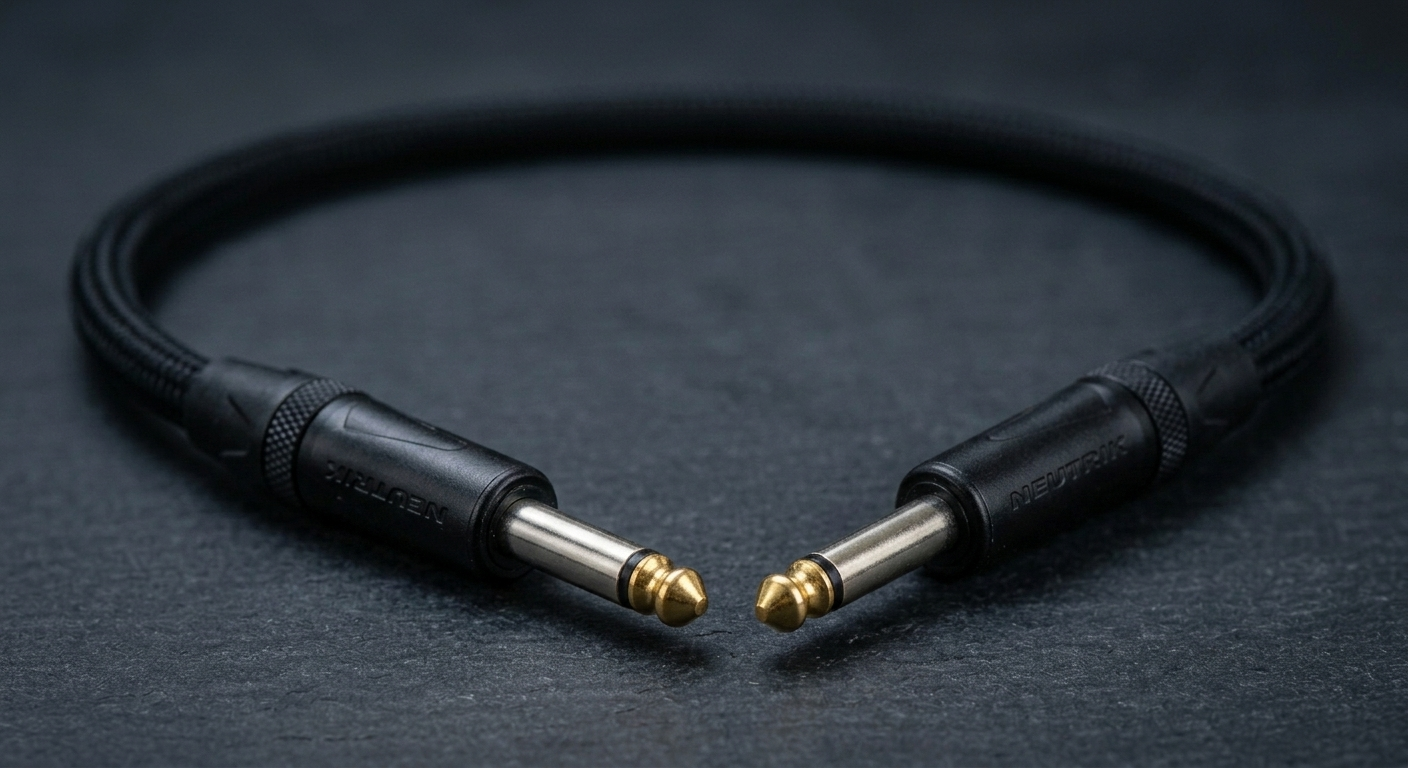
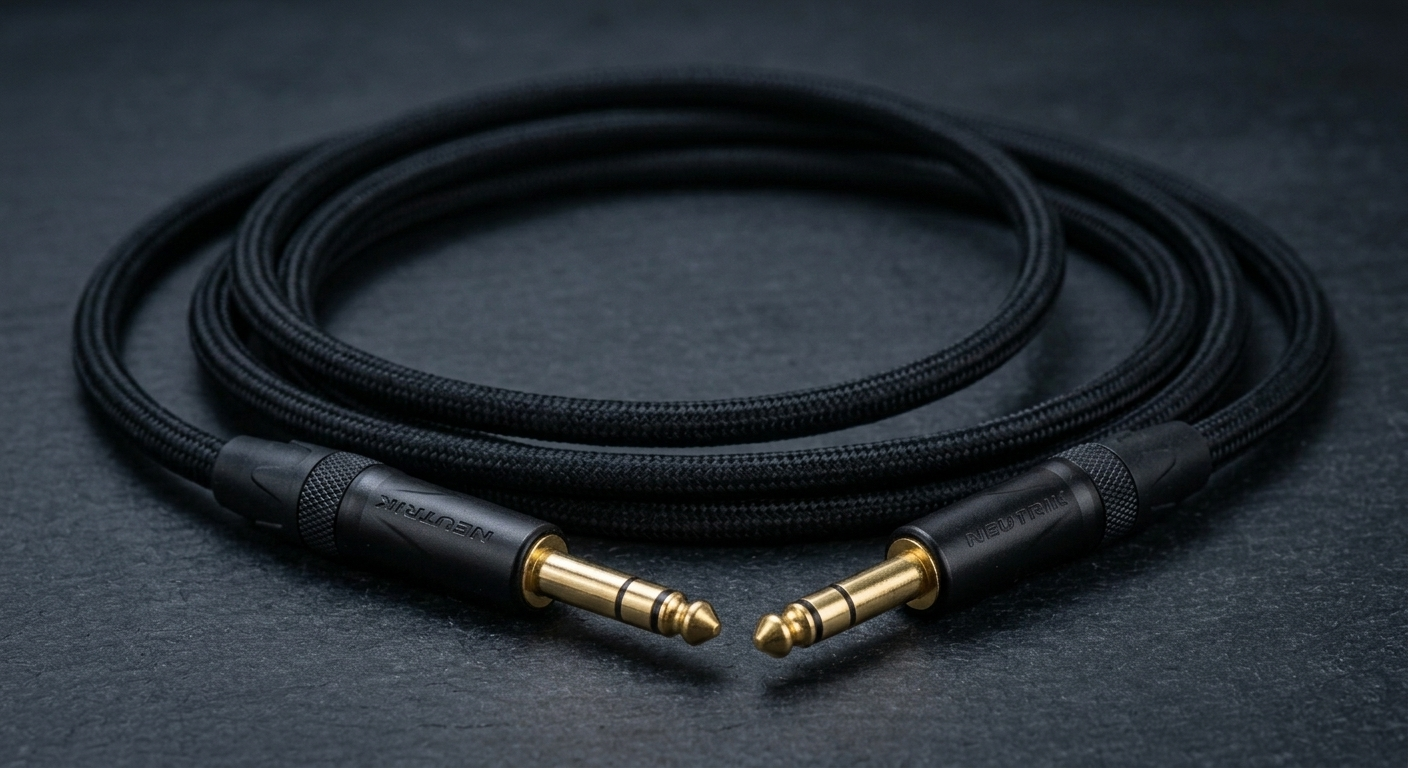
fix(HAT-323): remove The Right Angle, restore corrected Stage Cable photo
Delist The Right Angle product per CEO directive: drop it from
lib/products.ts (catalog, comparison table, blog cross-link keyword
maps), add a permanent redirect from /products/the-right-angle to
/products for any indexed links. Existing warranty claim options
(RA-6/RA-12) and finished-goods inventory records are left intact so
already-sold units keep Forever Guarantee support.

Deploy the HAT-314 corrected Stage Cable product photo (10ft coiled
length, no XLR, correct gold Neutrik NP2X-B straight plugs on both
ends) that was CEO-approved but never merged past its feature branch.

diff --git a/app/blog/[slug]/page.tsx b/app/blog/[slug]/page.tsx
@@ -79,14 +79,14 @@ function BlogPostJsonLd({ post }: { post: NonNullable<ReturnType<typeof getBlogP
 }
 
 const PRODUCT_TAG_MAP: Record<string, string[]> = {
-  'patch cables': ['the-workhorse', 'the-right-angle', 'the-pedalboard-pack'],
-  'pedalboard': ['the-workhorse', 'the-right-angle', 'the-pedalboard-pack'],
-  'pedalboard setup': ['the-pedalboard-pack', 'the-workhorse', 'the-right-angle'],
+  'patch cables': ['the-workhorse', 'the-pedalboard-pack'],
+  'pedalboard': ['the-workhorse', 'the-pedalboard-pack'],
+  'pedalboard setup': ['the-pedalboard-pack', 'the-workhorse'],
   'pedalboard plans': ['the-pedalboard-pack', 'the-workhorse'],
   'cable management': ['the-pedalboard-pack'],
   'organization': ['the-pedalboard-pack'],
-  'cable routing': ['the-pedalboard-pack', 'the-right-angle'],
-  'guitar pedals': ['the-workhorse', 'the-right-angle'],
+  'cable routing': ['the-pedalboard-pack'],
+  'guitar pedals': ['the-workhorse'],
   'guitar cable': ['the-stage-cable', 'the-workhorse'],
   'guitar cables': ['the-stage-cable', 'the-workhorse'],
   'instrument cable': ['the-stage-cable'],
@@ -94,18 +94,18 @@ const PRODUCT_TAG_MAP: Record<string, string[]> = {
   'amp': ['the-stage-cable'],
   'guitar tone': ['the-stage-cable', 'the-workhorse'],
   'tone': ['the-stage-cable', 'the-workhorse'],
-  'soldered cables': ['the-workhorse', 'the-right-angle', 'the-stage-cable'],
+  'soldered cables': ['the-workhorse', 'the-stage-cable'],
   'buying guide': ['the-workhorse', 'the-stage-cable', 'the-pedalboard-pack'],
   'cable comparison': ['the-workhorse', 'the-stage-cable'],
-  'mogami w2319': ['the-workhorse', 'the-right-angle'],
+  'mogami w2319': ['the-workhorse'],
   'mogami': ['the-stage-cable'],
   'Mogami': ['the-stage-cable'],
   'mogami w2524': ['the-stage-cable'],
   'forever guarantee': ['the-workhorse', 'the-stage-cable'],
   'guarantee': ['the-workhorse', 'the-stage-cable'],
   'cable specs': ['the-workhorse', 'the-stage-cable'],
-  'signal chain': ['the-workhorse', 'the-right-angle', 'the-stage-cable'],
-  'effects order': ['the-workhorse', 'the-right-angle'],
+  'signal chain': ['the-workhorse', 'the-stage-cable'],
+  'effects order': ['the-workhorse'],
   'bass cable': ['the-stage-cable'],
   'studio gear': ['the-stage-cable'],
 }

diff --git a/lib/products.ts b/lib/products.ts
@@ -150,35 +150,6 @@ export const products: Product[] = [
     featured: true,
   },
   {
-    id: 'workhorse-ra',
-    slug: 'the-right-angle',
-    name: 'The Right Angle',
-    tagline: 'Straight-to-Right-Angle',
-    description:
-      'The guitar pedal patch cable for tight layouts. One straight, one angled. Ferrite-filtered, wax-secured, and individually certified. Fits flush to any pedal housing.',
-    longDescription:
-      'Same Mogami W2319 cable and Neutrik gold build quality as The Workhorse, with a right-angle connector on one end for flush-mounted pedal jacks and tight pedalboard spacing. Like every Forever Cable, it gets a ferrite bead on the hot wire before soldering, flat-wax aerospace-grade securing at the cable entry, and individual certification testing. The angled plug sits flush against pedal housings and saves precious millimeters on crowded boards.',
-    specs: [
-      'Mogami W2319 cable',
-      'Neutrik NP2RX-B gold right-angle + NP2X-B gold straight plugs',
-      'Hand-soldered connections',
-      'Flat-wax aerospace-grade cable securing',
-      'Ferrite bead on hot wire (EMI rejection)',
-      'Individually certified: continuity, shield, capacitance, impedance',
-      'Available in 6", 12", and 18"',
-      'Forever Guarantee',
-    ],
-    price: 6995,
-    currency: 'usd',
-    stripePriceId: process.env.STRIPE_PRICE_RIGHT_ANGLE ?? '',
-    variants: [
-      { label: '6"', value: '6in', price: 6995, stripePriceId: process.env.STRIPE_PRICE_RIGHT_ANGLE_6 ?? process.env.STRIPE_PRICE_RIGHT_ANGLE ?? '' },
-      { label: '12"', value: '12in', price: 7195, stripePriceId: process.env.STRIPE_PRICE_RIGHT_ANGLE_12 ?? '' },
-      { label: '18"', value: '18in', price: 7495, stripePriceId: process.env.STRIPE_PRICE_RIGHT_ANGLE_18 ?? '' },
-    ],
-    image: '/products/the-right-angle.png',
-  },
-  {
     id: 'custom-pack',
     slug: 'the-custom-pack',
     name: 'The Custom Pack',

diff --git a/app/products/[slug]/page.tsx b/app/products/[slug]/page.tsx
@@ -194,7 +194,6 @@ function ProductJsonLd({ product }: { product: NonNullable<ReturnType<typeof get
 
 const PRODUCT_BLOG_TAGS: Record<string, string[]> = {
   'the-workhorse': ['patch cables', 'pedalboard', 'pedalboard setup', 'guitar pedals', 'soldered cables', 'mogami', 'mogami w2319', 'cable comparison'],
-  'the-right-angle': ['patch cables', 'pedalboard', 'pedalboard setup', 'guitar pedals', 'cable routing', 'cable management', 'organization', 'mogami'],
   'the-pedalboard-pack': ['pedalboard', 'pedalboard setup', 'pedalboard plans', 'cable management', 'organization', 'patch cables', 'guitar pedals', 'cable routing'],
   'the-stage-cable': ['instrument cable', 'instrument cables', 'guitar cable', 'guitar cables', 'amp', 'guitar tone', 'tone', 'mogami', 'Mogami', 'mogami w2524', 'bass cable', 'studio gear', 'signal chain'],
 }

diff --git a/components/ProductComparison.tsx b/components/ProductComparison.tsx
@@ -26,15 +26,6 @@ const columns: ProductColumn[] = [
     price: '$39.99+',
   },
   {
-    name: 'The Right Angle',
-    slug: 'the-right-angle',
-    connector: 'Straight to Right Angle',
-    lengths: '6", 12"',
-    use: { label: 'Tight Layouts', highlight: true },
-    bestFor: 'Space-saving connections on crowded boards',
-    price: '$39.99+',
-  },
-  {
     name: 'The Stage Cable',
     slug: 'the-stage-cable',
     connector: 'Straight to Straight',

diff --git a/next.config.js b/next.config.js
@@ -22,6 +22,11 @@ const nextConfig = {
         destination: '/blog',
         permanent: true,
       },
+      {
+        source: '/products/the-right-angle',
+        destination: '/products',
+        permanent: true,
+      },
     ]
   },
   async headers() {
